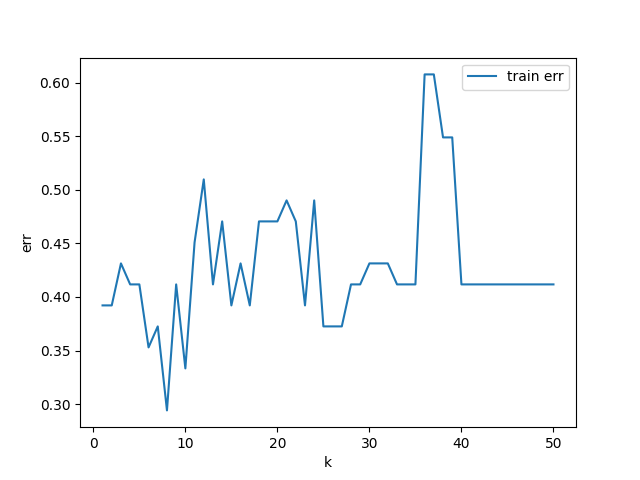
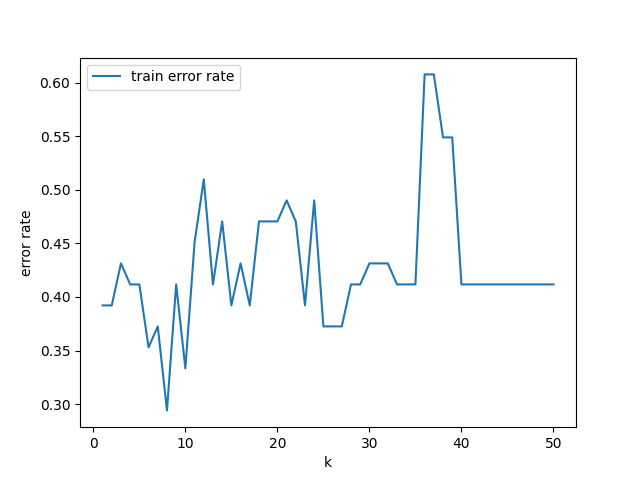
update

Changed region(s): [[0.125, 0.125, 0.375, 0.1875], [0.7188, 0.125, 0.875, 0.1875], [0.0312, 0.4375, 0.0625, 0.5938]]

diff --git a/HW1/p3.py b/HW1/p3.py
@@ -32,7 +32,7 @@ def mul_x_k(xs, k):
     return mul_xs.reshape(size, k)
 
 
-def train(xs, ys, func, name):
+def train(xs, ys, func):
     average = []
     for k in range(1, data_set_size - 1):
         model = LinearRegression()
@@ -45,12 +45,7 @@ def train(xs, ys, func, name):
     print("k: ", min_idx + 1)
     print("loss: ", average[min_idx])
 
-    plt.clf()
-    plt.plot([x for x in range(1, len(average) + 1)], average)
-    plt.legend(["Schwartz Criterion"])
-    plt.xlabel("k")
-    plt.ylabel("Estimated")
-    plt.savefig("p3" + name + ".png")
+    return average
 
 
 def regression(dof, n, loss):
@@ -62,5 +57,12 @@ if __name__ == "__main__":
     data_set_size = 10
     xs, ys = generate_data(data_set_size)
 
-    train(xs, ys, cos_x_k, "tri")
-    train(xs, ys, mul_x_k, "alg")
+    avg_tri = train(xs, ys, cos_x_k)
+    avg_alg = train(xs, ys, mul_x_k)
+    plt.plot([x for x in range(1, len(avg_tri) + 1)], avg_tri, label="Trigonometric")
+    plt.plot([x for x in range(1, len(avg_alg) + 1)], avg_alg, label="Algorithmic")
+    plt.legend()
+
+    plt.xlabel("k")
+    plt.ylabel("Estimated")
+    plt.savefig("p3.png")

diff --git a/HW1/p4.py b/HW1/p4.py
@@ -33,7 +33,7 @@ def mul_x_k(xs, k):
     return mul_xs.reshape(size, k)
 
 
-def train(xs, ys, func, name):
+def train(xs, ys, func):
     average = []
     kfold = KFold(n_splits=5, shuffle=True)
     for k in range(1, data_set_size - 1):
@@ -55,11 +55,7 @@ def train(xs, ys, func, name):
     print("k: ", min_idx + 1)
     print("loss: ", average[min_idx])
 
-    plt.plot([x for x in range(1, len(average) + 1)], average)
-    plt.legend(["Schwartz Criterion"])
-    plt.xlabel("k")
-    plt.ylabel("Estimated")
-    plt.savefig("p4" + name + ".png")
+    return average
 
 
 def regression(dof, n, score):
@@ -71,5 +67,12 @@ if __name__ == "__main__":
     data_set_size = 10
     xs, ys = generate_data(data_set_size)
 
-    train(xs, ys, cos_x_k, "tri")
-    train(xs, ys, mul_x_k, "alg")
+    avg_tri = train(xs, ys, cos_x_k)
+    avg_alg = train(xs, ys, mul_x_k)
+    plt.plot([x for x in range(1, len(avg_tri) + 1)], avg_tri, label="Trigonometric")
+    plt.plot([x for x in range(1, len(avg_alg) + 1)], avg_alg, label="Algorithmic")
+    plt.legend()
+
+    plt.xlabel("k")
+    plt.ylabel("Estimated")
+    plt.savefig("p4.png")

diff --git a/HW1/P1.py b/HW1/P1.py
@@ -73,10 +73,10 @@ if __name__ == "__main__":
     train_err = knnModel.predict(train_data)
     print("train err: ", train_err)
     test_err = knnModel.predict(test_data)
-    print("test err: ", 1 - test_err)
+    print("test err: ", test_err)
 
     plt.plot([x for x in range(1, train_data["data"].size)], errs)
-    plt.legend(["train err"])
+    plt.legend(["train error rate"])
     plt.xlabel("k")
-    plt.ylabel("err")
+    plt.ylabel("error rate")
     plt.savefig("p1.png")

diff --git a/HW1/P2.py b/HW1/P2.py
@@ -73,10 +73,10 @@ if __name__ == "__main__":
     train_err = knnModel.predict(train_data)
     print("train err: ", train_err)
     test_err = knnModel.predict(test_data)
-    print("test err: ", 1 - test_err)
+    print("test err: ", test_err)
 
     plt.plot([x for x in range(1, train_data["data"].size)], errs)
-    plt.legend(["train err"])
+    plt.legend(["train error rate"])
     plt.xlabel("k")
-    plt.ylabel("err")
+    plt.ylabel("error rate")
     plt.savefig("p2.png")

diff --git a/HW1/Report.md b/HW1/Report.md
@@ -1,0 +1,61 @@
+# Predictive learning HW1
+
+## Personal Information
+
+Name: 王重鈞  
+ID: 41047025S
+
+## Program Information
+
+Language: Python3.11.4  
+Pakcage: Numpy, Panda, Scikit-learn, Matplotlib
+
+## P1
+
+### train error rate in different k in K Nearest Neighbors algorithm
+
+Model: NeighborsClassifier  
+Train Data: obesity_election_2004.csv  
+Test Data: obesity_election_2000.csv
+
+![](./p1.png)
+
+Least error rate when k = 7  
+Resample error rate with k = 7: 0.2156862745098039  
+Test error rate with k = 7: 0.5294117647058824
+
+## P2
+
+Model: NeighborsClassifier  
+Train Data: obesity_election_2000.csv  
+Test Data: obesity_election_2004.csv
+
+### train error rate in different k in K Nearest Neighbors algorithm
+
+![](./p2.png)
+
+Least error rate when k = 8
+Resample error rate with k = 8: 0.2549019607843137
+Test error rate with k = 8: 0.39215686274509803
+
+## Data generate for P3 P4:
+
+```python
+def generate_data(size=10):
+    xs = np.random.uniform(0, 1, size=size)
+    ys = xs**2 + 0.1 * xs + np.random.normal(0, 0.5, size=size)
+    return xs, ys
+```
+
+## P3
+
+Model: LinearRegression  
+Train/Test Data: The data consists of n = 10 samples, (x, y), where x is uniformly distributed in [0,1] and y = x^2 +0.1x+noise and the noise has Gaussian distribution N(0, 0.25). Note that the noise has variance 0.25 or standard deviation 0.5.
+
+![](p3tri.png)
+![](p3alg.png)
+
+## P4
+
+Model: LinearRegression  
+Train/Test Data: The data consists of n = 10 samples, (x, y), where x is uniformly distributed in [0,1] and y = x^2 +0.1x+noise and the noise has Gaussian distribution N(0, 0.25). Note that the noise has variance 0.25 or standard deviation 0.5.
